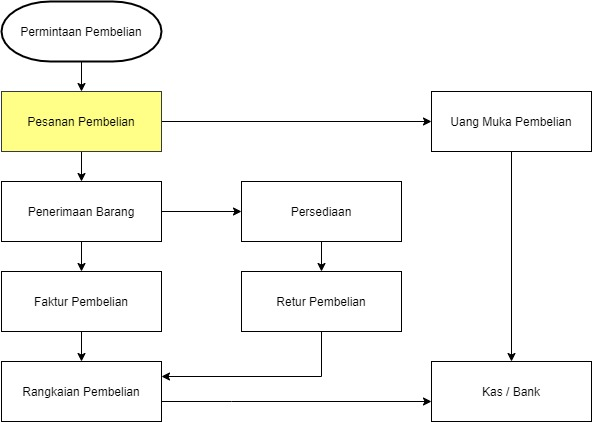
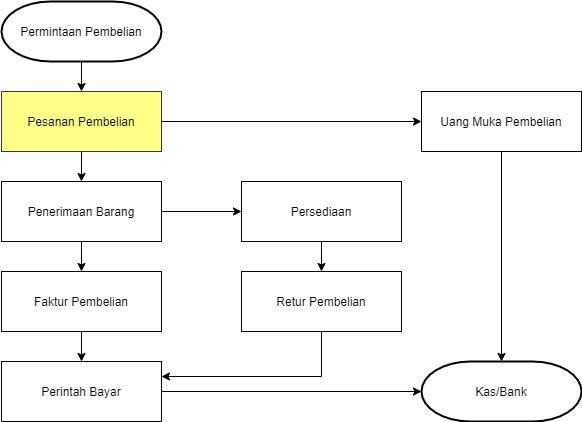
update purchase, sidebar and media

diff --git a/docs/id/modules/pembelian/uang-muka-pembelian.md b/docs/id/modules/pembelian/uang-muka-pembelian.md
@@ -1,10 +1,14 @@
 # UANG MUKA PEMBELIAN
 
+![](_media/id/pembelian/uang-muka-pembelian.jpg)
 
-Uang Muka Pembelian merupakan sebagian nominal dari jumlah pesanan pembelian yang dibayarkan oleh perusahaan sebagai syarat atas barang pesanan yang akan dikirimkan. 
+## DEFINISI
+Sebagian nominal dari jumlah pesanan pembelian yang dibayarkan perusahaan sebagai syarat atas barang pesanan yang akan dikirimkan. 
 
-Uang Muka Pembelian memiliki fungsi sebagai pemberi informasi dari departemen pembelian ke departemen keuangan bahwa atas pesanan pembelian yang telah dikirimkan kepada pihak supplier membutuhkan uang muka sebagai syarat agar barang pesanan segera diproses. Dan apabila nilainya telah diakui oleh departemen keuangan maka dapat mengurangi jumlah pembayaran yang harus dibayarkan kepada supplier.
+## KEGUNAAN
+Sebagai pemberi informasi dari departemen pembelian ke departemen keuangan bahwa pesanan pembelian yang telah dikirimkan kepada pihak supplier membutuhkan uang muka sebagai syarat agar barang pesanan segera diproses. Dan apabila nilainya telah diakui oleh departemen keuangan maka dapat mengurangi jumlah pembayaran yang harus dibayarkan kepada supplier.
 
-Dalam sistem uang muka pembelian hanya berisi informasi atas uang muka yang harus dibayarkan oleh pihak keuangan. Sehingga tidak terjadi jurnal karena jurnal akan diakui pada saat kasir perusahaan melakukan pembayaran uang muka melalui sistem kas / bank
+!> **Dalam sistem uang muka pembelian** hanya berisi informasi atas uang muka yang harus dibayarkan oleh pihak keuangan. Sehingga tidak terjadi jurnal karena jurnal akan diakui pada saat kasir perusahaan melakukan pembayaran uang muka melalui sistem kas / bank.
 
-Contoh : Departemen pembelian mengirimkan pesanan pembelian kepada supplier. Kemudian pihak supplier memberikan informasi bahwa atas pesanan tersebut membutuhkan pembayaran dimuka agar barang dapat dikirimkan. Departemen pembelian harus mengisi form uang muka pembelian sebagai informasi kepada departemen keuangan agar dapat mengaturkan pembayarannya. 
+## CONTOH
+Departemen pembelian mengirimkan pesanan pembelian kepada supplier. Kemudian supplier memberikan informasi bahwa atas pesanan tersebut membutuhkan pembayaran di muka agar barang dapat dikirimkan. Departemen pembelian harus mengisi form uang muka pembelian sebagai informasi kepada departemen keuangan agar dapat mengaturkan pembayarannya. 

diff --git a/docs/id/modules/aset-tetap/metode-penyusutan.md b/docs/id/modules/aset-tetap/metode-penyusutan.md
@@ -1,0 +1,39 @@
+# METODE PENYUSUTAN
+
+
+Metode Penyusutan merupakan Metode yang dipilih untuk memperhitungkan jumlah nominal penyusutan atas aset tetap pada satu periode.
+
+Metode Penyusutan memiliki fungsi untuk memberikan pilihan kepada pengguna dalam menentukan tarif penyusutan tiap satu periode hingga nominal aset tetap mencapai nilai residu.
+
+Properti : 
+
+| Column            | Type      | Description | Relationship |
+| ----------------- | --------- | --- | --- |
+| Nama Tipe Aset    | varchar   | | |
+| Metode Penyusutan | int       |     |     |
+| Masa Manfaat      | int       |     |     |
+| Tarif Penyusutan  | decimal   |     |     |
+| created_at        | timestamp | | |
+| updated_at        | timestamp | | &nbsp; |
+
+Mengapa diperlukan membuat metode penyusutannya terlebih dahulu? karena ada kemungkinan satu tipe aset tetap memiliki umur manfaat yang berbeda
+
+Contoh : Perusahaan memiliki 5 printer yang digunakan dalam satu kantor. Printer ini diperkirakan memiliki masa manfaat selama 4 tahun. Dan perusahaan juga memiliki Meja dan Kursi yang perkiraan masa manfaatnya dapat digunakan selama 8 tahun.
+
+Kedua barang tersebut merupakan satu tipe aset dalam neraca yaitu Peralatan. Maka cara inputnya:
+
+| Column            | Type          | Description |
+| ----------------- | ------------- | ----------- |
+| Nama Tipe Aset    | Peralatan 1   |             |
+| Metode Penyusutan | Garis Lurus   |             |
+| Masa Manfaat      | 4 thn         |             |
+| Tarif Penyusutan  | 25%           |             |
+
+| Column            | Type          | Description |
+| ----------------- | ------------- | ----------- |
+| Nama Tipe Aset    | Peralatan 2   |             |
+| Metode Penyusutan | Garis Lurus   |             |
+| Masa Manfaat      | 8 thn         |             |
+| Tarif Penyusutan  | 12,5%         |             |
+
+Apabila akan melakukan input aset tetap namun metode penyusutan sudah pernah dibuat sebelumnya. maka tidak perlu membuat lagi.

diff --git a/docs/id/modules/pembelian/perintah-bayar.md b/docs/id/modules/pembelian/perintah-bayar.md
@@ -1,12 +1,14 @@
-# RANGKAIAN PEMBELIAN
+# PERINTAH BAYAR
 
-![](_media/id/pembelian/rangkaian-pembelian.jpg)
+![](_media/id/pembelian/perintah-bayar.jpg)
 
 ## DEFINISI
 sekumpulan daftar pengajuan pembayaran dari pihak keuangan untuk meminta persetujuan dari atasan/manager untuk kemudian dilakukan pembayarannya. 
 
 ## KEGUNAAN
 sebagai perantara antara pihak yang bertanggung jawab atas pengeluaran kas dengan atasan/manager. Dan sebagai kontrol atas pengeluaran kas / bank atau pengecekan terhadap hutang harus diundur atau harus segera dibayarkan.
+
+!> **Dalam Perintah Bayar** tidak terjadi jurnal karena hanya sebagai pengajuan pembayaran kepada atasan / yang memegang tanggung jawab hutang.
 
 ## CONTOH
 Bagian keuangan memiliki rencana untuk melakukan pembayaran kepada beberapa supplier. Saat bagian keuangan melakukan pengajuan persetujuan pembayaran, atasan / manager melihat adanya hutang yang sebenarnya masih bisa ditunda dulu karena saat itu kas / bank sangat menipis / sedang dibutuhkan untuk kegiatan tertentu. Maka atasan / manager dapat tidak menyetujui pembayaran atas hutang-hutang yang dapat diundur. 

diff --git a/docs/id/modules/pembelian/retur-pembelian.md b/docs/id/modules/pembelian/retur-pembelian.md
@@ -3,7 +3,7 @@
 ![](_media/id/pembelian/retur-pembelian.jpg)
 
 ## DEFINISI
-Pengembalian barang atas barang yang telah dibeli karena alasan-alasan tertentu sehingga dapat mengurangi jumlah nominal hutang kepada supplier yang bersangkutan.
+Pengembalian barang atas barang yang dibeli karena alasan-alasan tertentu sehingga dapat mengurangi nominal hutang kepada supplier yang bersangkutan.
 
 ## KEGUNAAN
 untuk melakukan input transaksi retur pembelian sehingga dapat dilihat daftar rekamannya dan dapat mengurangi nominal hutang saat akan dilakukan pembayaran dalam sistem kas / bank
@@ -29,4 +29,4 @@ Perusahaan mengembalikan barang kepada supplier sebesar Rp.800.000 karena barang
 | 10401    | Persediaan Bahan Baku |            | Rp.800.000 |
 
 
-!> ** Note** Retur dibebankan langsung pada Persediaan karena sistem mengunakan metode Perpectual
+!> **Note** Retur dibebankan langsung pada Persediaan karena sistem mengunakan metode Perpectual

diff --git a/docs/id/modules/pembelian/pesanan-pembelian.md b/docs/id/modules/pembelian/pesanan-pembelian.md
@@ -3,7 +3,7 @@
 ![](_media/id/pembelian/pesanan-pembelian.jpg)
 
 ## DEFINISI
-kegiatan dimana pihak purchasing memastikan kepada supplier mengenai  jumlah ketersediaan serta harga atas barang dalam permintaan pembelian, sehingga dapat dibuatkan untuk form pesanan pembelian dari perusahaan kemudian dikirimkan kepada supplier agar barang dapat diproses pengirimannya. 
+kegiatan dimana pihak purchasing memastikan kepada supplier mengenai  jumlah ketersediaan serta harga atas barang dalam permintaan pembelian, sehingga dapat dibuatkan form pesanan pembelian dari perusahaan kemudian dikirimkan kepada supplier agar barang dapat diproses pengirimannya. 
 
 ## KEGUNAAN
 mempermudah departemen pembelian dalam melakukan konfirmasi, mencari serta menentukan supplier atas barang yang dibutuhkan. 

diff --git a/docs/id/modules/aset-tetap/tipe-aset-tetap.md b/docs/id/modules/aset-tetap/tipe-aset-tetap.md
@@ -1,0 +1,15 @@
+# TIPE ASET TETAP
+
+
+Tipe Aset Tetap merupakan pengelompokan tipe aset yang termasuk dalam akun Chart of Account
+
+Tipe Aset Tetap memiliki fungsi sebagai pengelompokan aset tetap yang akan ditambahkan agar nominalnya dapat bertambah pada Neraca.
+
+| Column               | Type      | Description |
+| -------------------- | --------- | ----------- |
+| Nama Tipe Aset Tetap | varchar   |             |
+| Metode Penyusutan    | varchar   |             |
+| Masa Manfaat         | int       |             |
+| Tarif Penyusutan     | decimal   |             |
+
+Mengapa perlu membuat Tipe Aset Tetap? Karena 

diff --git a/docs/id/modules/pembelian/permintaan-pembelian.md b/docs/id/modules/pembelian/permintaan-pembelian.md
@@ -3,7 +3,7 @@
 ![](_media/id/pembelian/permintaan-pembelian.jpg)
 
 ## DEFINISI
-Pengajuan dari departemen yang memerlukan adanya pengadaan barang yang berhubungan dengan kegiatan operasional maupun non operasional.
+Pengajuan dari departemen yang memerlukan pengadaan barang yang berhubungan dengan kegiatan operasional maupun non operasional.
 
 ## KEGUNAAN
 Sebagai penghubung antara departemen yang mengajukan dengan user yang memiliki wewenang untuk memberikan persetujuan agar dapat diproses oleh departemen pembelian. Sehingga dapat dilihat daftar riwayat permintaan barangnya.

diff --git a/docs/id/_sidebar.md b/docs/id/_sidebar.md
@@ -26,7 +26,7 @@
       - [Pesanan Pembelian](id/modules/pembelian/pesanan-pembelian.md)
       - [Penerimaan Barang](id/modules/pembelian/penerimaan-barang.md)
       - [Faktur Pembelian](id/modules/pembelian/faktur-pembelian.md)
-      - [Rangkaian Pembelian](id/modules/pembelian/rangkaian-pembelian.md)
+      - [Perintah Bayar](id/modules/pembelian/perintah-bayar.md)
       - [Uang Muka Pembelian](id/modules/pembelian/uang-muka-pembelian.md)
       - [Retur Pembelian](id/modules/pembelian/retur-pembelian.md)
   - Penjualan

diff --git a/docs/id/modules/pembelian/faktur-pembelian.md b/docs/id/modules/pembelian/faktur-pembelian.md
@@ -3,7 +3,7 @@
 ![](_media/id/pembelian/faktur-pembelian.jpg)
 
 ## DEFINISI
-Penerimaan sejumlah tagihan yang harus dibayarkan oleh perusahaan atas barang yang telah diterima. 
+Penerimaan sejumlah tagihan yang harus dibayarkan perusahaan atas barang yang telah diterima. 
 
 ## KEGUNAAN
 untuk input transaksi hutang perusahaan berdasarkan faktur yang diterima. Sehingga perusahaan dapat melihat jumlah daftar hutang yang masih harus dibayar kepada supplier serta masa jatuh temponya.

diff --git a/docs/id/modules/master/gudang.md b/docs/id/modules/master/gudang.md
@@ -12,11 +12,11 @@ Table : `gudang`
 
 Properties :
 
-| Column | Type | Description | Relationship |
-| --- | --- | --- | --- |
+| Column | Type      | Description | Relationship |
+| --- | --------- | --- | --- |
 | id | increment | | |
-| code | string | unique | |
-| name | string | | |
+| code | varchar   | unique | |
+| name | varchar   | | |
 | created_at | timestamp | | |
 | updated_at | timestamp | | &nbsp; |
 
